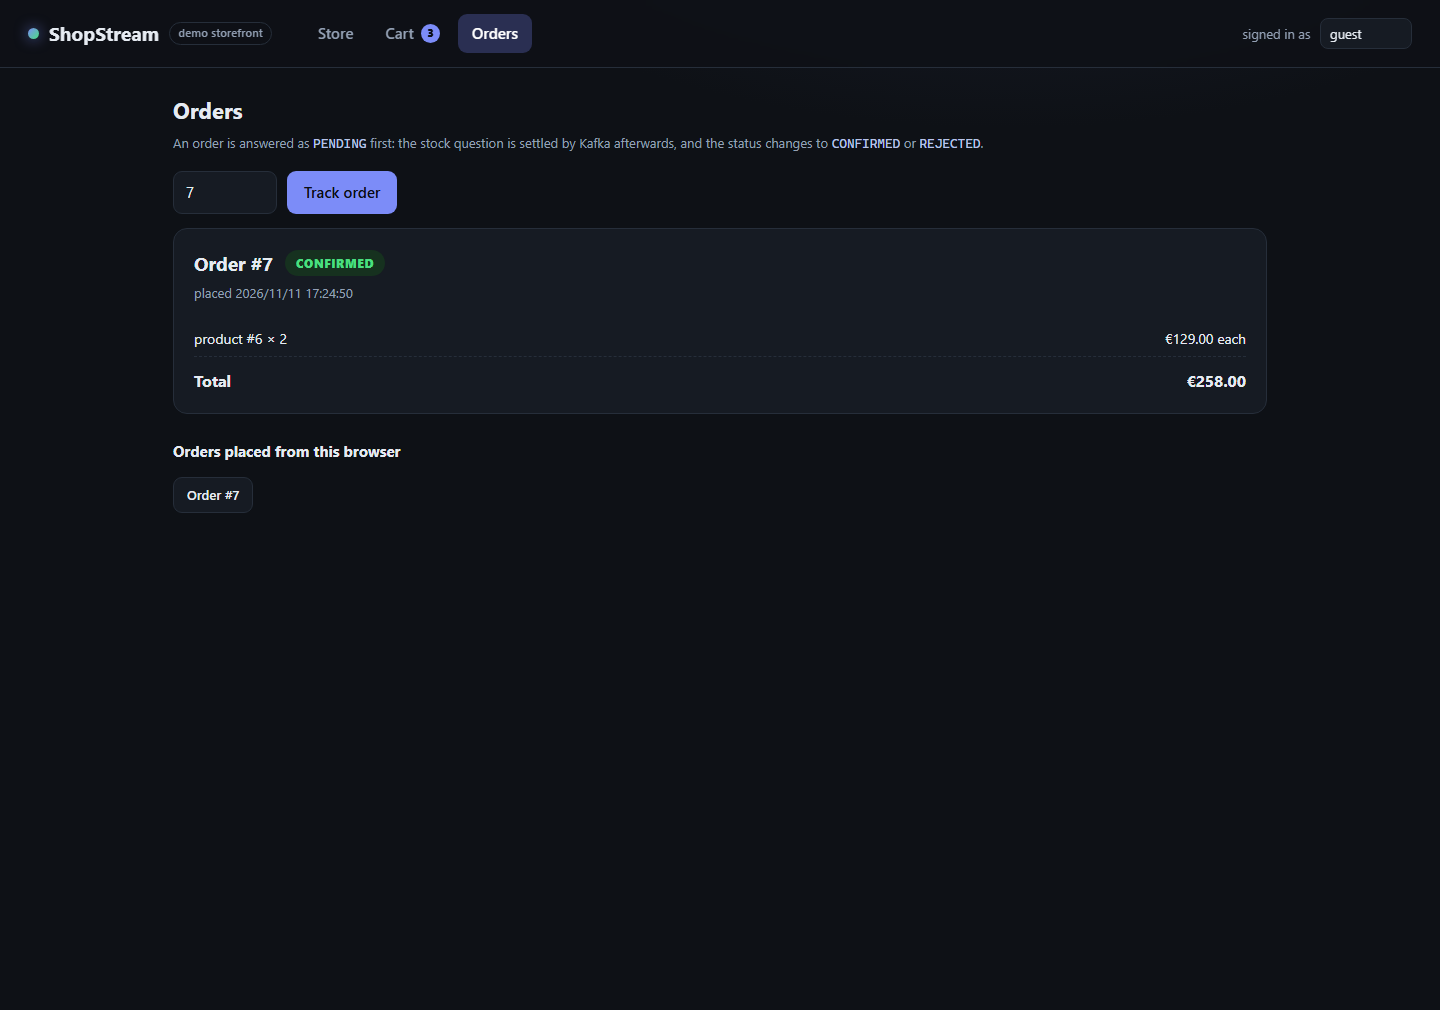
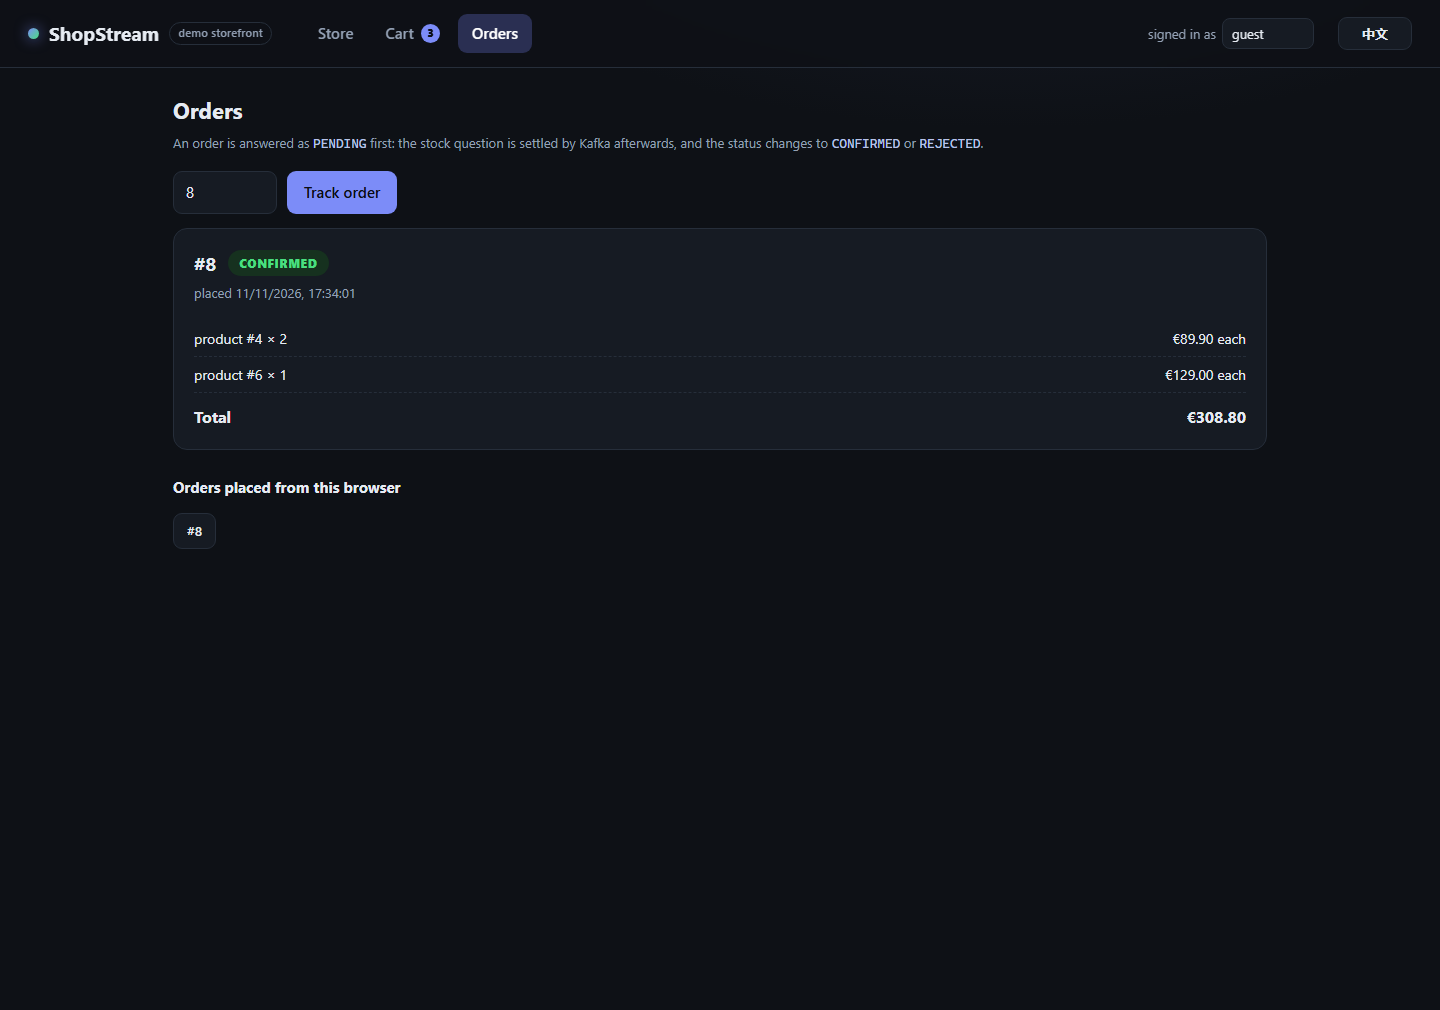
docs: document the bilingual storefront
README shows the same cart in both languages and explains the switch; NOTES 7.5
records the dictionary-per-view design and the stale-container pitfall.

diff --git a/NOTES.md b/NOTES.md
@@ -459,7 +459,34 @@ demo can jump straight to an order.
 | add two items in the page | badge showed `3`; `GET /api/carts/guest` showed `4 x2`, `6 x1`, total `€308.80` |
 | `POST :8084/api/carts/guest/checkout` | `{"orderId":8,"orderStatus":"CONFIRMED","cartCleared":true}`; the cart was then empty and the order showed `totalPrice 308.80` |
 | the same purchase in the search index | `stock` of product 6 went from 3 to 2 — the page's checkout went through the whole Kafka saga |
-| screenshots | `docs/screenshots/{store,cart,orders}.png`, taken from a headless browser against the running stack |
+| screenshots | `docs/screenshots/{store,cart,orders,zh-cart}.png`, taken from a headless browser against the running stack |
+| `?lang=zh` in the URL | the whole page rendered in Chinese, including the stock badges (`库存 17`, `仅剩 4`) and the order statuses (`待确认 PENDING`) |
+| language button | switching re-rendered the catalogue, the cart and the last order in place, without a reload |
+
+### 7.5 Bilingual page, and why it is one dictionary
+
+The demo is in Hungary, the report is in English, and the person who has to explain this project in
+December thinks in Chinese. So the page carries both languages.
+
+**Static markup keeps keys, not text.** Every label in `index.html` is `data-i18n="cart_title"` or
+`data-i18n-ph="search_ph"`; the English text lives only in the `I18N.en` table of `app.js`. Adding a
+third language is one object, and nothing can drift between the markup and the dictionary because the
+markup has no copy of its own.
+
+**Rendering goes through `t()`.** Anything the script builds - stock badges, the checkout banner, the
+order status, the dates - is formatted with `t("status_" + order.status)` and friends, and dates use
+`toLocaleString(locale())` with `zh-CN` / `en-GB`. No string is concatenated in the page.
+
+**Switching is a re-render, not a reload.** `setLang()` writes the choice to `localStorage`, rewrites the
+static markup and then re-renders whichever view is open with the data already in memory - so the cart and
+the order on screen keep their state while the words change. The first visit picks the language from
+`navigator.language`; `?lang=zh` / `?lang=en` overrides the stored choice, which is how the screenshots
+were taken and how the same laptop can be flipped in front of an examiner without hunting for a button.
+
+Pitfall worth remembering: `docker compose up -d --build frontend` rebuilds the image but, because the
+tag did not change, leaves the old container serving the old files. `--force-recreate` is required, and the
+cheap proof is comparing the served file with the source:
+`(Get-FileHash $tmp).Hash -eq (Get-FileHash frontend\public\app.js).Hash`.
 
 ---
 

diff --git a/README.md b/README.md
@@ -11,6 +11,7 @@ TTL and are only emptied when the order they produce is confirmed, and the hot p
 
 Open **<http://localhost:8084>** after `docker compose up`: that is the whole system in a browser —
 browse the catalogue, add to the cart, check out and watch the order come back `CONFIRMED`.
+The page is bilingual (English / 中文, button in the top right corner, or `?lang=zh` in the URL).
 
 ## Services
 
@@ -77,7 +78,14 @@ The interesting part for the architecture: the cart stores product ids only, so 
 product-service for each name and price as it renders. That is the same read model an e-commerce site
 has — a cart is a list of references, not a copy of the catalogue.
 
+The page is bilingual: every string comes from one dictionary in `app.js`, the static markup carries
+`data-i18n` keys, and switching language re-renders whatever is on screen instead of reloading. The
+choice is remembered in `localStorage`, the first visit follows `navigator.language`, and `?lang=zh`
+/`?lang=en` overrides both — handy when the same laptop has to show the demo to two audiences.
+
 ![The cart](docs/screenshots/cart.png)
+
+![The same cart in Chinese](docs/screenshots/zh-cart.png)
 
 ![One order](docs/screenshots/orders.png)
 
